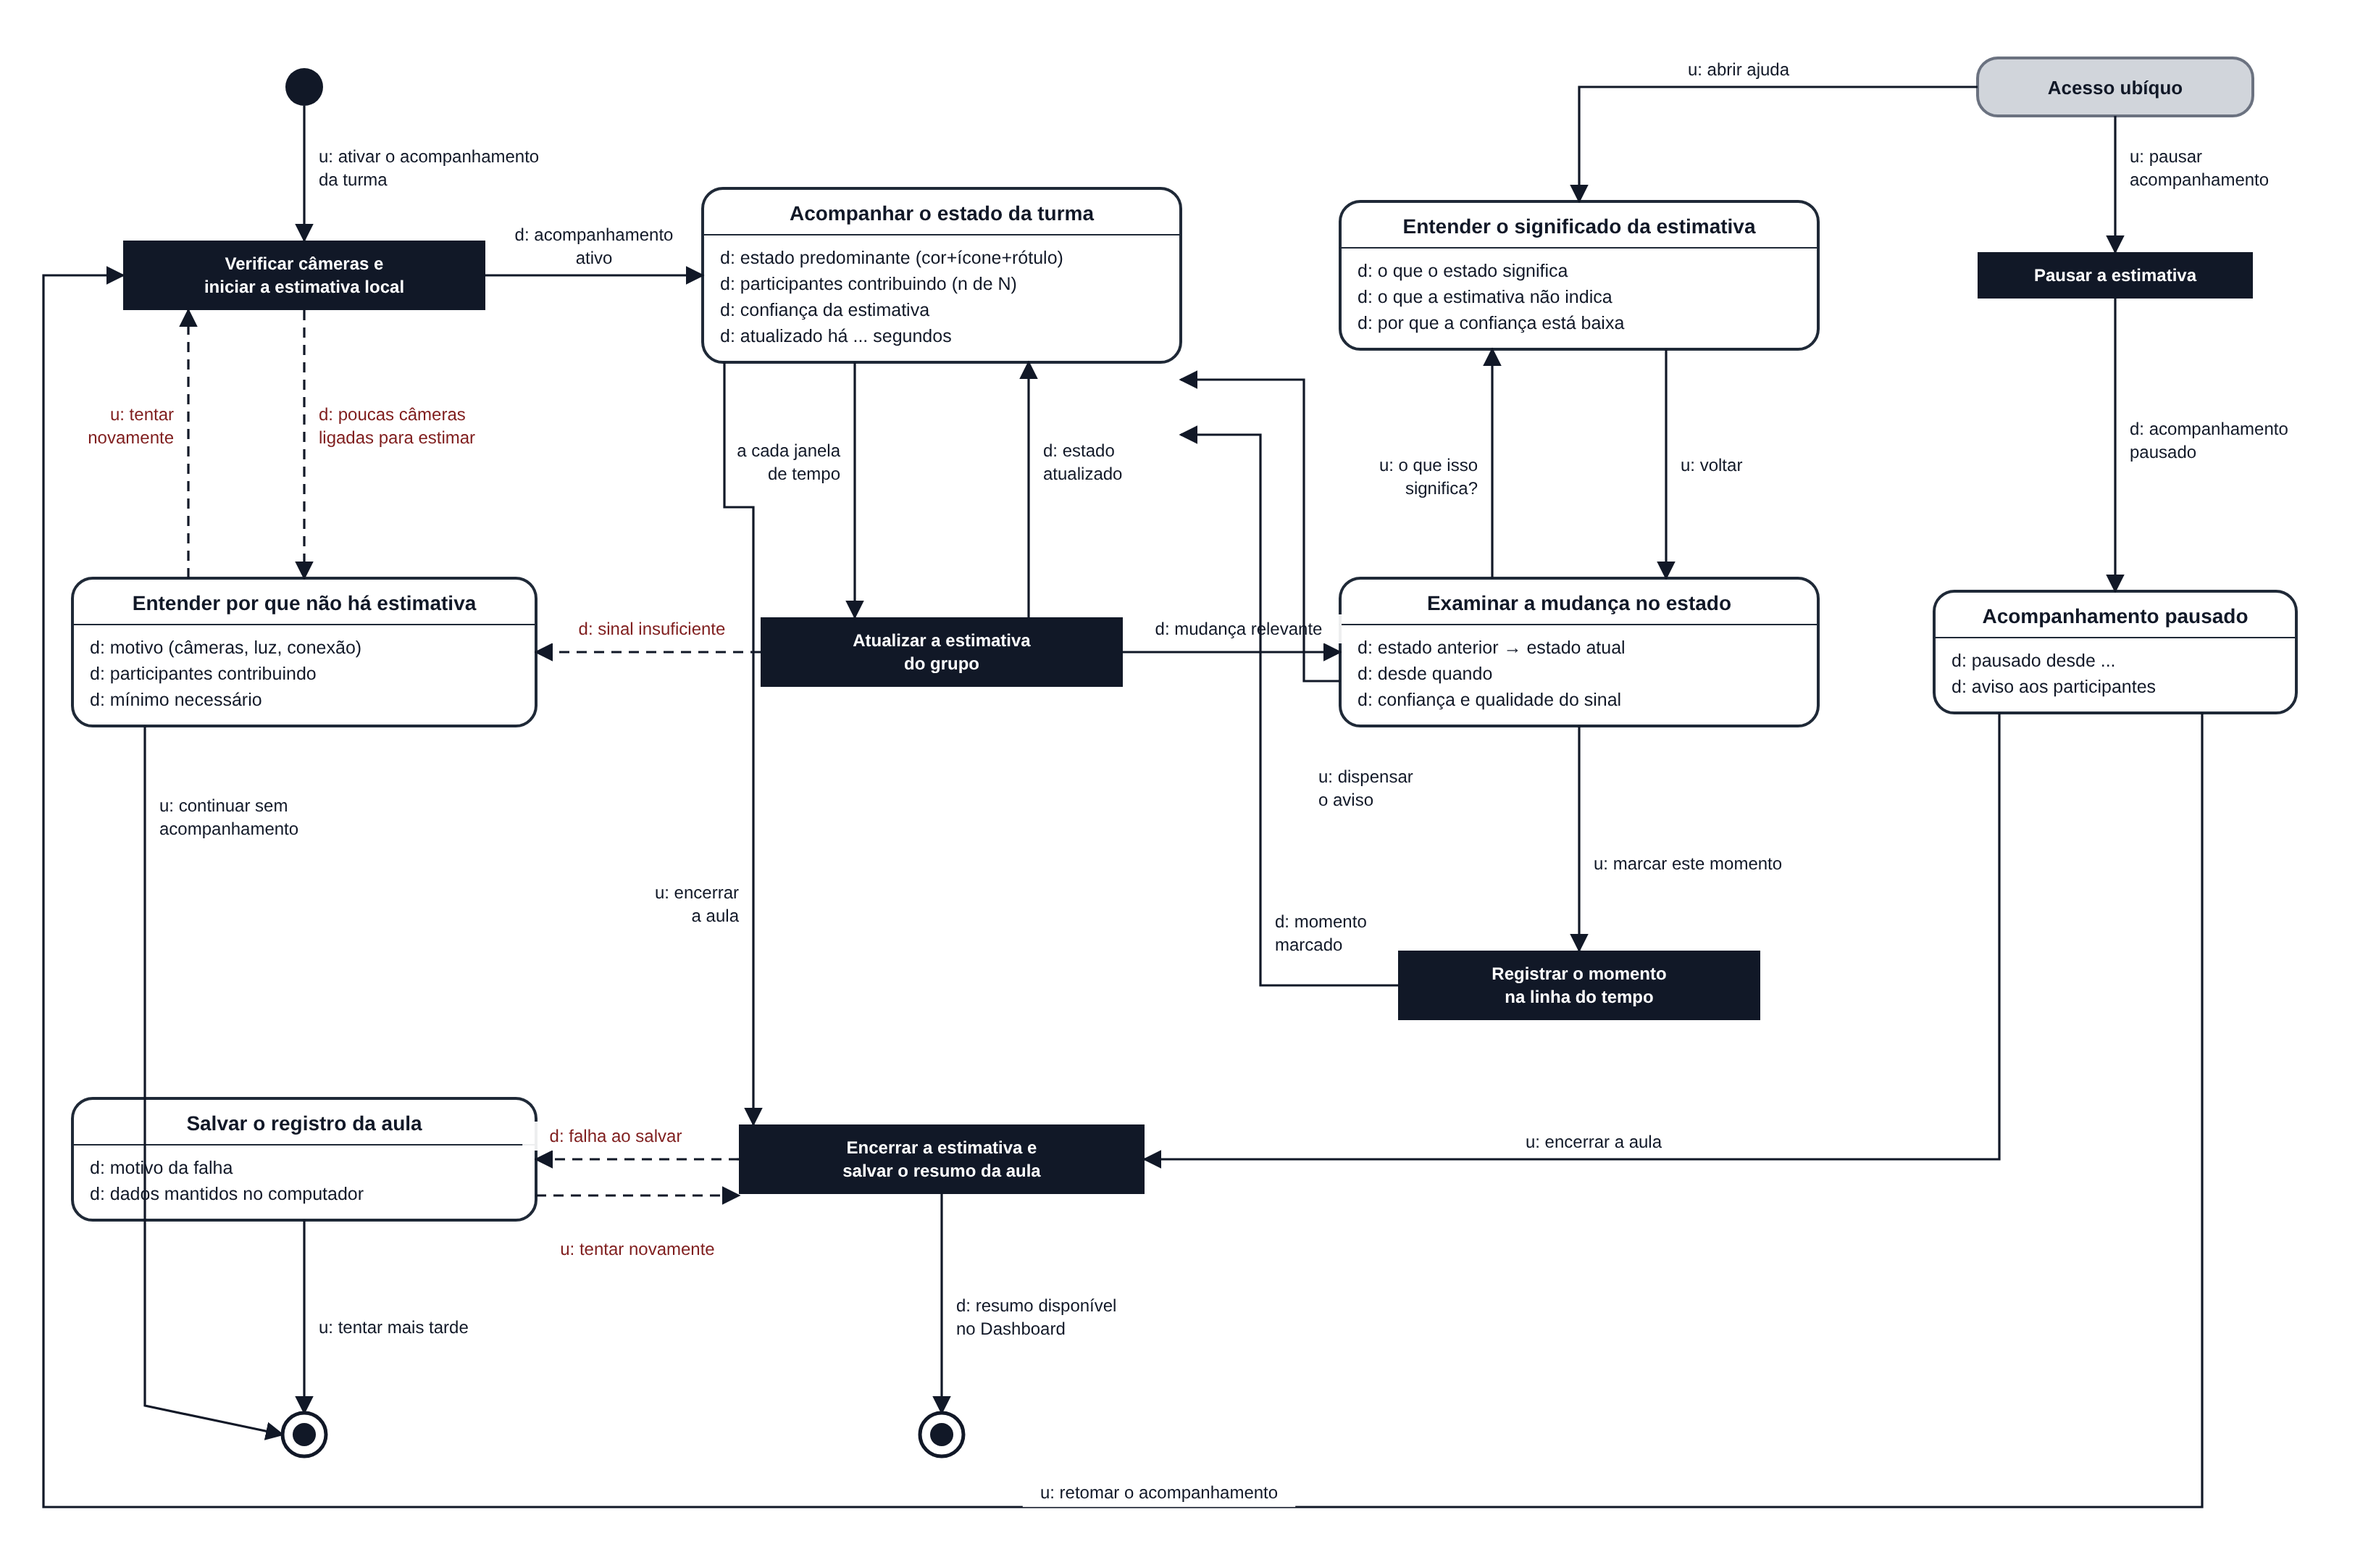
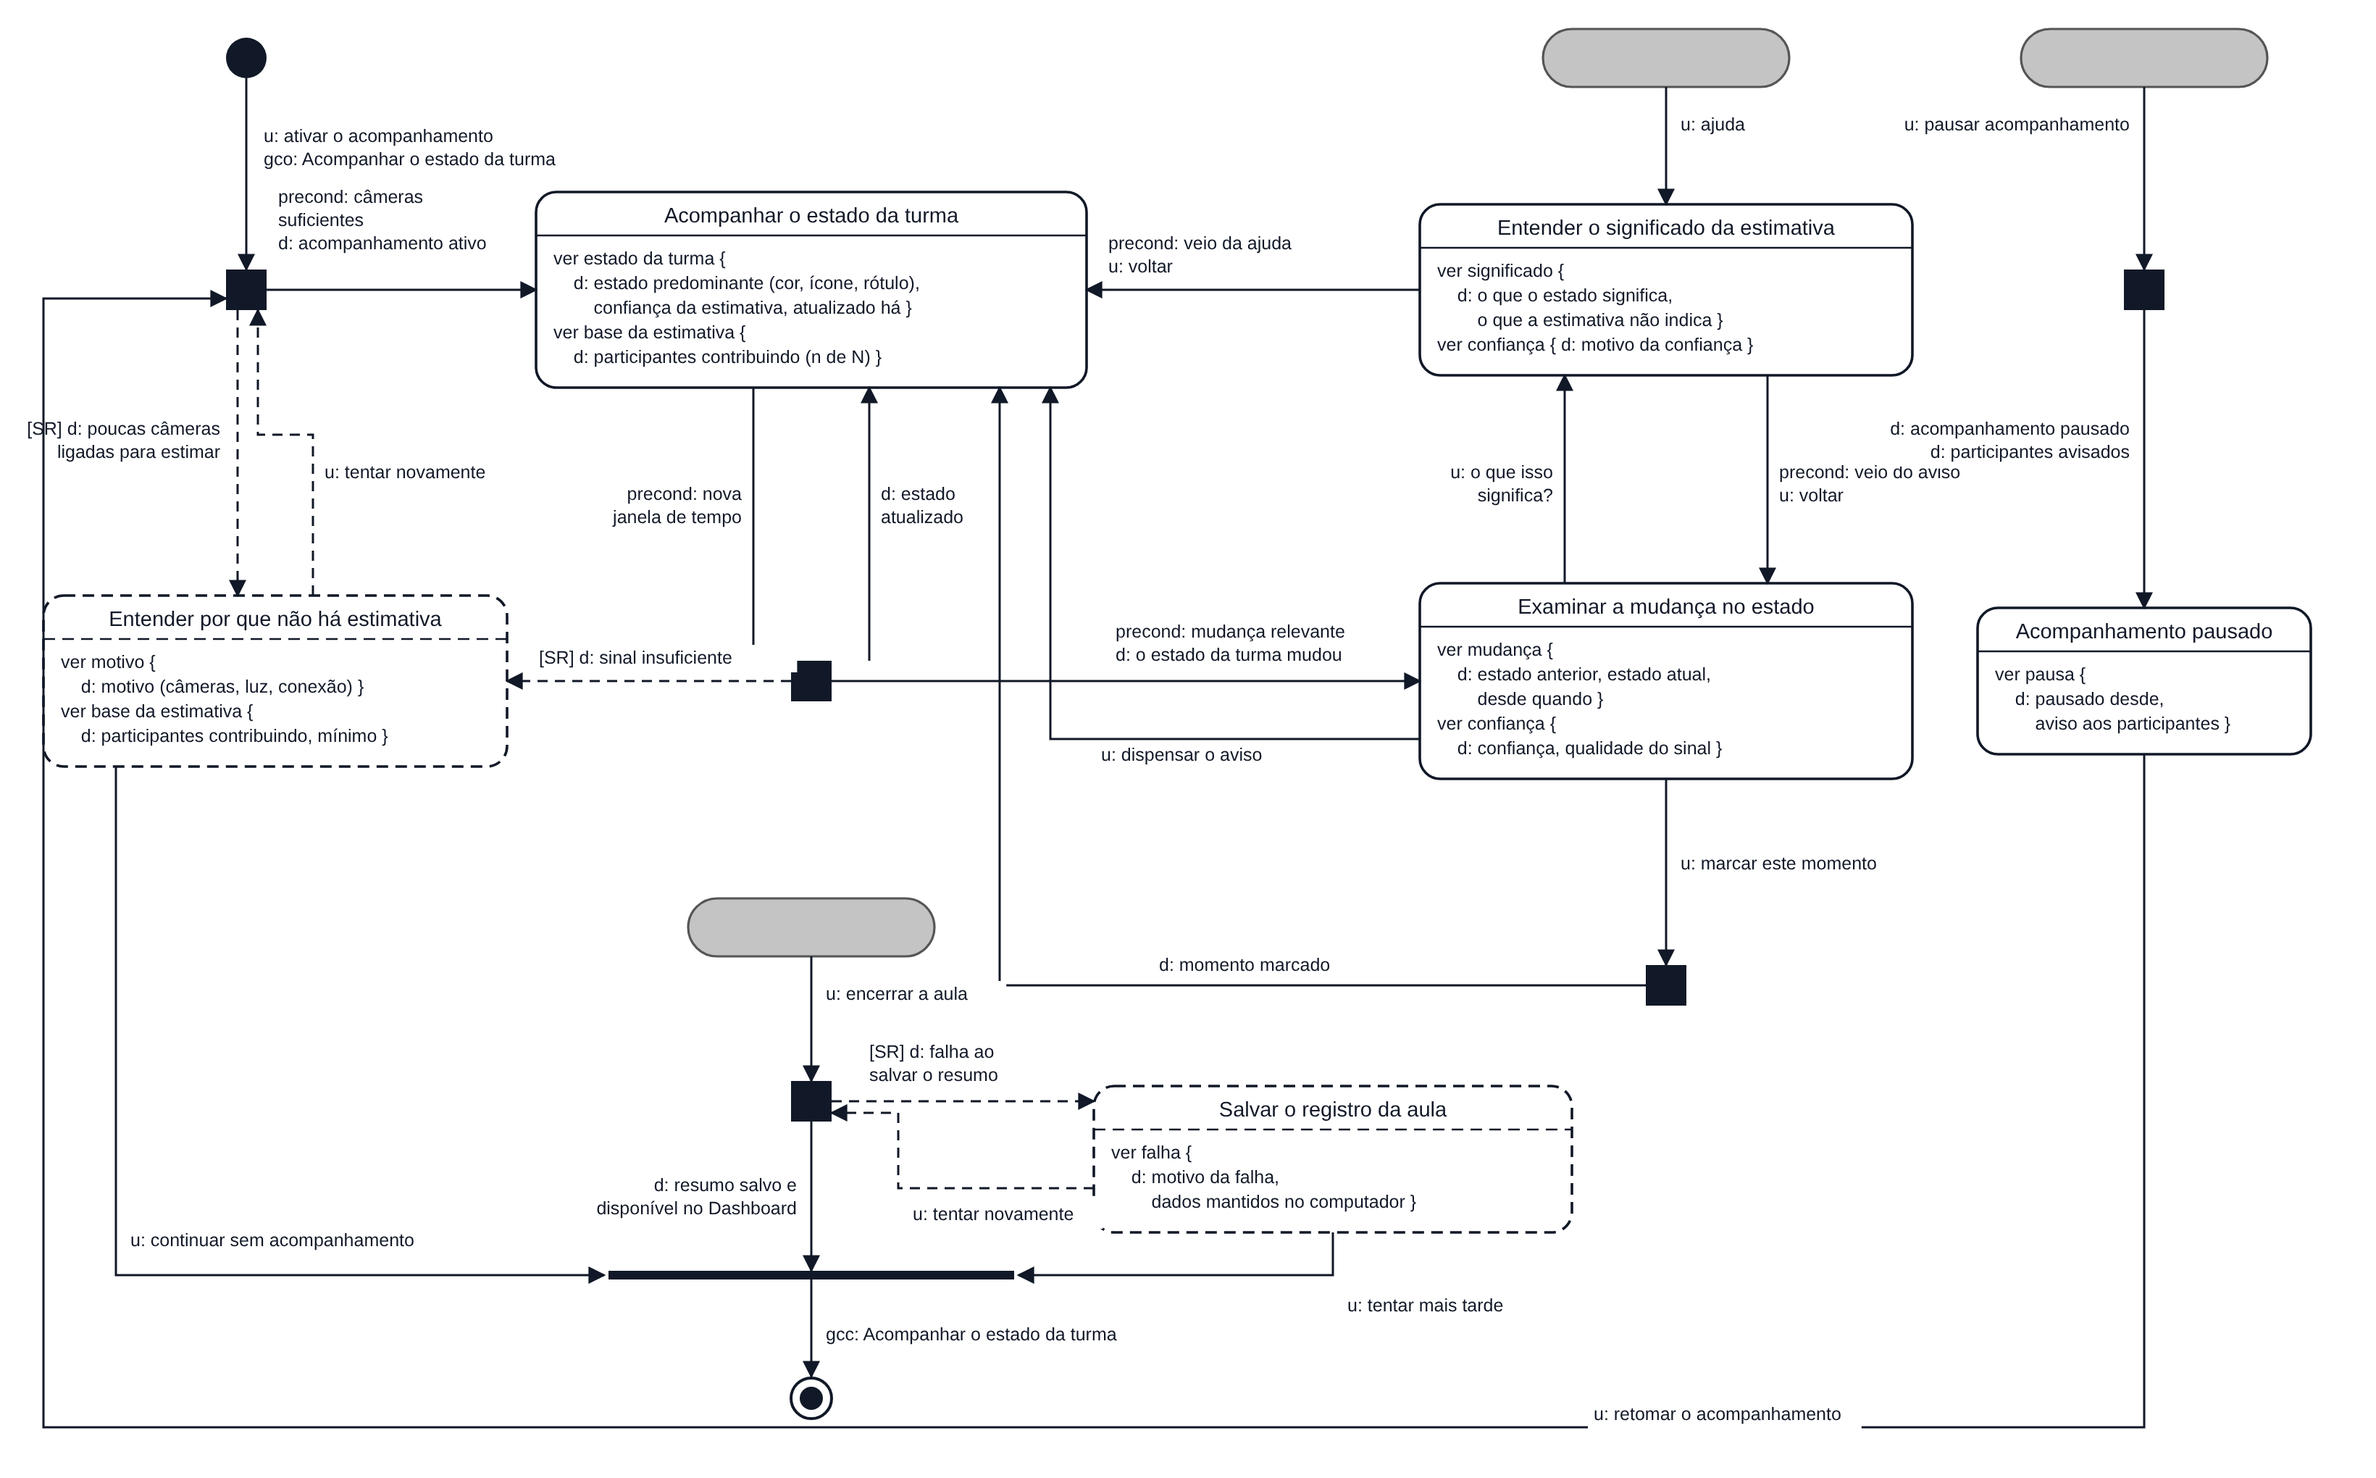
MoLIC M05 refeito na notação de Barbosa e Silva

diff --git a/docs/10_molic.md b/docs/10_molic.md
@@ -37,53 +37,56 @@ Modele também rupturas plausíveis: entrada inválida, falha de processamento, 
 
 **Fonte editável:** [`molic_m05.svg`](../assets/10_molic/molic_m05.svg)
 
-| Elemento | Representação no diagrama |
-|---|---|
-| Ponto de abertura | círculo preenchido |
-| Cena (tópico de conversa) | retângulo de cantos arredondados, com o tópico no topo e os diálogos (`d:` / `u:`) abaixo |
-| Processamento do sistema | retângulo preto |
-| Fala de transição | seta contínua com `u:` (fala do usuário) ou `d:` (fala do preposto do designer) |
-| Ruptura e recuperação | seta tracejada |
-| Acesso ubíquo | retângulo cinza, alcançável de qualquer cena |
-| Ponto de encerramento | círculo com centro preenchido |
+Notação de Barbosa e Silva (2010), conforme o material da disciplina:
+
+| Elemento | Representação no diagrama | No M05 |
+|---|---|---|
+| Ponto de abertura | círculo preto, com a fala do usuário e a abertura da conversa sobre a meta (`gco:`) | `u: ativar o acompanhamento` / `gco: Acompanhar o estado da turma` |
+| Cena | retângulo de cantos arredondados; tópico em cima e diálogos embaixo, no formato `diálogo { d: signos }` | cinco cenas, como "Acompanhar o estado da turma" |
+| Cena de alerta ou captura de erro | cena com borda tracejada | "Entender por que não há estimativa" e "Salvar o registro da aula" |
+| Processo do sistema | quadrado preto; o sistema decide o rumo da conversa, e as falas ficam nas saídas | verificar câmeras, atualizar a estimativa, registrar o momento, pausar, salvar o resumo |
+| Fala de transição | seta com `u:` (usuário) ou `d:` (preposto do designer); `precond:` indica a condição | `u: marcar este momento`, `precond: mudança relevante` |
+| Ruptura e recuperação | seta tracejada; `[SR]` marca a fala do preposto que leva à recuperação da ruptura | `[SR] d: sinal insuficiente`, `u: tentar novamente` |
+| Acesso ubíquo | retângulo cinza sem texto, alcançável de qualquer cena; pode ser repetido no diagrama | `u: ajuda`, `u: pausar acompanhamento`, `u: encerrar a aula` |
+| Fechamento da conversa | barra preta com `gcc:` e ponto de encerramento (círculo com centro preenchido) | `gcc: Acompanhar o estado da turma` |
 
 ### Leitura do diagrama
 
-O MoLIC modela a conversa entre Camila e o MindFlow durante a aula. A decisão de reforçar o conteúdo fica fora da conversa: o sistema mostra o estado e a confiança, e Camila decide sozinha o que fazer, como prevê a CI05.
+A meta do M05 é **acompanhar o estado da turma** durante a explicação. A decisão de reforçar o conteúdo fica fora da conversa: o preposto mostra o estado e a confiança da estimativa, e Camila decide o que fazer na aula, como prevê a CI05.
 
 #### Caminho principal
 
-1. **Abertura → Verificar câmeras e iniciar a estimativa local:** Camila diz `u: ativar o acompanhamento da turma`. O sistema verifica quantos alunos estão com câmera ligada e inicia a estimativa no computador de cada participante.
-2. **→ Acompanhar o estado da turma:** com participantes suficientes, o sistema responde `d: acompanhamento ativo`. A cena mostra o estado predominante (cor, ícone e rótulo), os participantes contribuindo, a confiança e há quanto tempo foi atualizado.
-3. **Atualizar a estimativa do grupo:** a cada janela de tempo, o sistema recalcula a estimativa e volta à cena com `d: estado atualizado`.
-4. **→ Examinar a mudança no estado:** quando o estado muda de forma relevante, o sistema avisa `d: mudança relevante`. A cena mostra o estado anterior e o atual, desde quando e a confiança.
-5. **→ Registrar o momento na linha do tempo:** se Camila diz `u: marcar este momento`, o sistema registra o minuto da aula e responde `d: momento marcado`, voltando ao acompanhamento. Se ela diz `u: dispensar o aviso`, volta direto ao acompanhamento.
-6. **→ Encerrar a estimativa e salvar o resumo da aula:** ao fim, `u: encerrar a aula` leva ao processamento que encerra a estimativa e salva o resumo. O sistema responde `d: resumo disponível no Dashboard` e a conversa termina.
+1. **Abertura:** Camila diz `u: ativar o acompanhamento`, o que abre a conversa sobre a meta (`gco: Acompanhar o estado da turma`). O sistema verifica as câmeras.
+2. Com `precond: câmeras suficientes`, o preposto responde `d: acompanhamento ativo` e a conversa vai para a cena **Acompanhar o estado da turma**. Nela, os diálogos "ver estado da turma" (estado predominante, confiança, atualizado há) e "ver base da estimativa" (participantes contribuindo) mostram o estado do grupo.
+3. A cada `precond: nova janela de tempo`, o sistema atualiza a estimativa e volta à cena com `d: estado atualizado`.
+4. Com `precond: mudança relevante`, o preposto diz `d: o estado da turma mudou`, e a conversa vai para **Examinar a mudança no estado** (estado anterior, estado atual, desde quando, confiança e qualidade do sinal).
+5. Camila pode dizer `u: marcar este momento`. O sistema registra o momento e responde `d: momento marcado`, voltando ao acompanhamento. Ou pode dizer `u: dispensar o aviso` e voltar direto.
+6. Pelo acesso ubíquo, `u: encerrar a aula` leva ao processo que salva o resumo. O preposto responde `d: resumo salvo e disponível no Dashboard`, a conversa é fechada (`gcc: Acompanhar o estado da turma`) e chega ao ponto de encerramento.
 
-Caminhos alternativos sem ruptura:
+Caminhos alternativos:
 
-- A partir de **Examinar a mudança no estado**, `u: o que isso significa?` leva à cena **Entender o significado da estimativa**, que explica o estado, o que a estimativa não indica e por que a confiança pode estar baixa. `u: voltar` retorna à mudança.
-- Pelo **acesso ubíquo**, Camila pode, de qualquer cena, `u: abrir ajuda` (mesma cena de significado) ou `u: pausar acompanhamento`. A pausa leva à cena **Acompanhamento pausado**, de onde ela pode `u: retomar o acompanhamento` (volta à verificação de câmeras) ou `u: encerrar a aula`.
+- Em **Examinar a mudança no estado**, `u: o que isso significa?` leva à cena **Entender o significado da estimativa**. Ela também é alcançada pelo acesso ubíquo `u: ajuda`. A volta depende de onde Camila veio: `precond: veio do aviso / u: voltar` retorna à mudança, e `precond: veio da ajuda / u: voltar` retorna ao acompanhamento.
+- Pelo acesso ubíquo, `u: pausar acompanhamento` leva ao processo de pausa. O preposto responde `d: acompanhamento pausado` e `d: participantes avisados`, e a conversa vai para **Acompanhamento pausado**. Dali, `u: retomar o acompanhamento` volta à verificação de câmeras.
 
 #### Alternativas e rupturas
 
 | Situação | Onde ocorre | Como o usuário percebe | Caminho de recuperação/saída |
 |---|---|---|---|
-| Poucas câmeras ligadas para estimar (abaixo do mínimo) | Processamento "Verificar câmeras e iniciar a estimativa local" | `d: poucas câmeras ligadas para estimar` e a cena "Entender por que não há estimativa", com o motivo, os participantes contribuindo e o mínimo necessário | `u: tentar novamente` (nova verificação) ou `u: continuar sem acompanhamento` (encerra a conversa com o MindFlow; a aula segue como antes) |
-| Sinal insuficiente no meio da aula (câmeras desligadas, luz, conexão) | Processamento "Atualizar a estimativa do grupo" | `d: sinal insuficiente` e a mesma cena de explicação do motivo | As mesmas saídas: tentar novamente ou continuar sem acompanhamento |
-| Estimativa que parece errada para a professora | Cena "Examinar a mudança no estado" | Confiança e qualidade do sinal exibidas junto da mudança | `u: o que isso significa?` para entender a estimativa, ou `u: dispensar o aviso` |
-| Acompanhamento que atrapalha a aula | Qualquer cena | — | Acesso ubíquo: `u: pausar acompanhamento`; depois retomar ou encerrar |
-| Falha ao salvar o resumo da aula | Processamento "Encerrar a estimativa e salvar o resumo da aula" | `d: falha ao salvar` e a cena "Salvar o registro da aula", com o motivo e a informação de que os dados continuam no computador | `u: tentar novamente` (volta ao processamento) ou `u: tentar mais tarde` (encerra sem perder os dados) |
+| Poucas câmeras ligadas para estimar | Processo de verificação de câmeras, ao ativar | `[SR] d: poucas câmeras ligadas para estimar` e a cena de alerta "Entender por que não há estimativa", com o motivo, os participantes contribuindo e o mínimo | `u: tentar novamente` (nova verificação) ou `u: continuar sem acompanhamento` (fecha a conversa; a aula segue sem o MindFlow) |
+| Sinal insuficiente no meio da aula (câmeras desligadas, luz, conexão) | Processo de atualização da estimativa | `[SR] d: sinal insuficiente` e a mesma cena de alerta | As mesmas saídas: tentar novamente ou continuar sem acompanhamento |
+| Estimativa que parece errada para a professora | Cena "Examinar a mudança no estado" | Confiança e qualidade do sinal mostradas junto da mudança | `u: o que isso significa?` ou `u: dispensar o aviso` |
+| Acompanhamento que atrapalha a aula | Qualquer cena | — | Acesso ubíquo `u: pausar acompanhamento`; depois retomar ou encerrar |
+| Falha ao salvar o resumo da aula | Processo de salvar o resumo | `[SR] d: falha ao salvar o resumo` e a cena de alerta "Salvar o registro da aula", informando que os dados continuam no computador | `u: tentar novamente` (volta ao processo) ou `u: tentar mais tarde` (fecha a conversa sem perder os dados) |
 
 ### Checklist específico de modelagem
 
-- [x] Existe **ponto de abertura** coerente com o início do objetivo (ativar o acompanhamento antes ou no início da explicação).
+- [x] Existe **ponto de abertura** coerente com o início do objetivo (`u: ativar o acompanhamento` / `gco: Acompanhar o estado da turma`).
 - [x] As **cenas de conversa** representam tópicos/assuntos, não nomes de páginas apenas.
 - [x] As transições/falas deixam claro o que o usuário ou o sistema comunica.
-- [x] Há **ponto(s) de encerramento** para objetivos concluídos/abandonados quando aplicável (resumo salvo; continuar sem acompanhamento ou tentar mais tarde).
-- [x] Processamentos do sistema estão representados conforme a notação adotada em aula, sem “inventar” fala do usuário (a atualização periódica parte do sistema, não de uma fala de Camila).
-- [x] Rupturas (breakdowns) relevantes têm feedback e caminho de recuperação, não becos sem saída.
-- [x] Acessos ubíquos/atalhos só aparecem quando semanticamente justificáveis (pausar e ajuda, que Camila pode precisar em qualquer momento da aula).
+- [x] Há **ponto(s) de encerramento** para objetivos concluídos/abandonados quando aplicável (barra `gcc:` alcançada pelo resumo salvo, por continuar sem acompanhamento ou por tentar mais tarde).
+- [x] Processamentos do sistema estão representados conforme a notação adotada em aula, sem “inventar” fala do usuário (quadrados pretos; a atualização periódica entra no processo por `precond: nova janela de tempo`, sem fala de Camila).
+- [x] Rupturas (breakdowns) relevantes têm feedback e caminho de recuperação, não becos sem saída (setas tracejadas com `[SR]` e cenas de alerta tracejadas).
+- [x] Acessos ubíquos/atalhos só aparecem quando semanticamente justificáveis (ajuda, pausar e encerrar a aula, que Camila pode precisar em qualquer momento).
 - [x] O diagrama cobre caminhos alternativos importantes, e não apenas o “happy path”.
 - [x] Nomes de objetivos, tópicos e signos são coerentes com a Entrega 9.
 - [x] O diagrama é legível em tamanho normal no GitHub.
